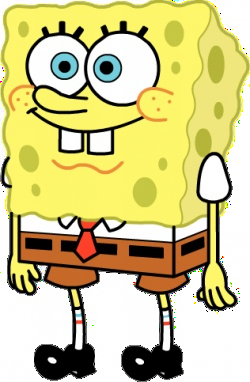
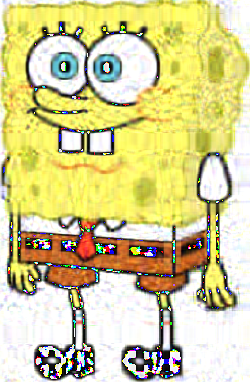
Succeeded in getting the svd compressor to work with the builtin svd.

diff --git a/svd/svd.py b/svd/svd.py
@@ -15,13 +15,13 @@ class SVDBase:
     Give a best rank approximation svd of the matrix arr of the given rank.
     Returns the tuple (u', d', v_t') such that the product has rank to_rank
     """
-    u, d, v_t = get(self)
+    u, d, v_t = self.get()
     u_prime = np.zeros((u.shape[0], to_rank) )
     d_prime = np.zeros((to_rank, to_rank))
     v_t_prime = np.zeros((to_rank, v_t.shape[1]))
     for i in range(to_rank):
       u_prime[..., i] = u[..., i] #copy col
-      d_prime[i][i] = u[i][i]
+      d_prime[i][i] = d[i][i]
       v_t_prime[i,...] = v_t[i,...] #copy row
     return (u_prime, d_prime, v_t_prime)
 

diff --git a/svd/svd_image_compressor.py b/svd/svd_image_compressor.py
@@ -22,13 +22,9 @@ def compress(filename):
   approx = []
   approximator = RankApprox(1.0)
   for arr in colors:
-    U, D, V = NumpyLAPACKSVD(arr).get()
-    print U.shape
-    print D.shape
-    print V.shape
+    print arr.shape
+    U, D, V = NumpyLAPACKSVD(arr).best_rank_svd(arr.shape[1] / 10)
     approx.append(np.dot(U, np.dot(D, V)))
-  print "red svd'ed"
-  print approx[0]
   for i in range(len(approx)):
     approx[i] = to_uint8(approx[i])
   return image_lib.to_image(approx)

diff --git a/svd/image_lib.py b/svd/image_lib.py
@@ -15,10 +15,8 @@ def png_to_rgba_matrices(image):
   Output: A 3xWxH matrix whose elements correspond to the RGB of the image
   (Matix could be 4xWxH if we have an Alpha component)
   """
-  r,g,b,a = image.split()
-  print "a"
-  print np.array(a)
-  return (np.array(r), np.array(g), np.array(b))
+  rgb = image.split()
+  return (np.array(rgb[0]), np.array(rgb[1]), np.array(rgb[2]))
 
 def to_image_arr(rgba_arrs):
   result = []
